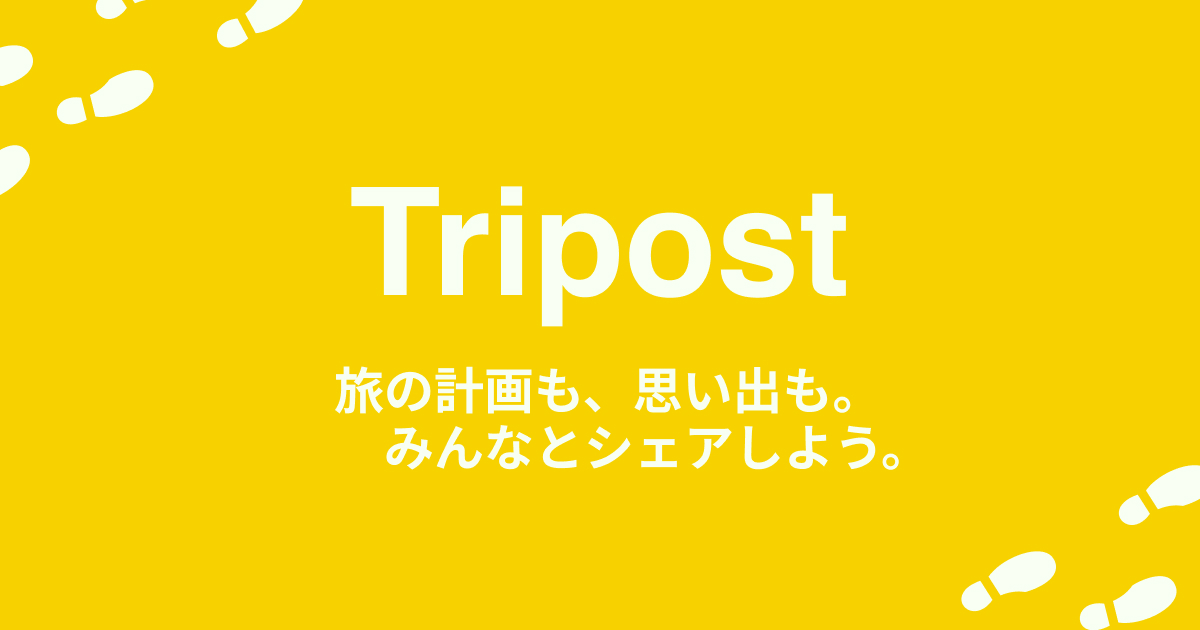
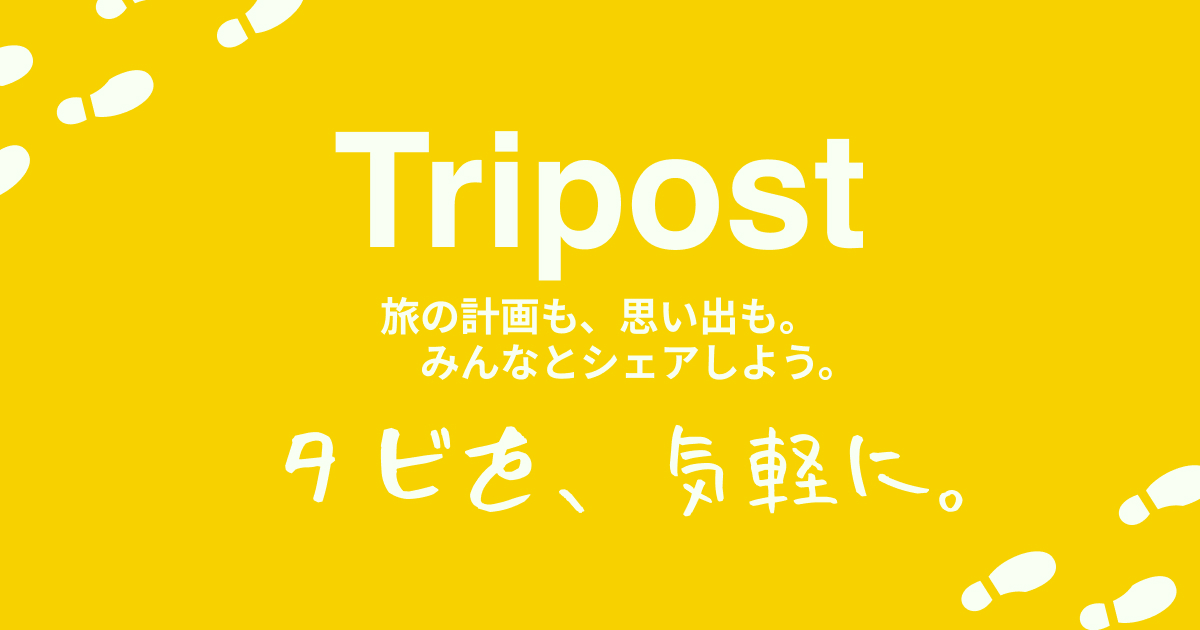
OGP修正＆画像変更

Changed region(s): [[0.2775, 0.181, 0.8017, 0.8143], [0.2158, 0.6635, 0.2775, 0.8143]]

diff --git a/backend_tripost/resources/js/Pages/Profile/ShowPublic.jsx b/backend_tripost/resources/js/Pages/Profile/ShowPublic.jsx
@@ -136,7 +136,7 @@ export default function Show({ user, countries, posts }) {
 
   return (
     <div className='flex min-h-screen flex-col items-center bg-white'>
-      <Head title={`@{user.displayid}`} />
+      <Head title='プロフィール' />
       <div className='w-full'>
         {/*ヘッダー*/}
         <Link href={route('posts.index')}>

diff --git a/backend_tripost/resources/views/app.blade.php b/backend_tripost/resources/views/app.blade.php
@@ -27,9 +27,14 @@
         <meta property="og:type" content="website">
         <meta property="og:title" content="{{ config('app.name', 'Tripost') }}">
         <meta property="og:description" content="旅の計画も、思い出も。みんなとシェアしよう。">
-        <meta property="og:image" content="{{ asset('images/ogp.jpg') }}">
+        <meta property="og:image" content="{{ url('/images/ogp.jpg') }}">
         <meta property="og:url" content="{{ url()->current() }}">
-        <meta name="twitter:card" content="summary">
+
+        <!-- Twitter Card -->
+        <meta name="twitter:card" content="summary_large_image">
+        <meta name="twitter:title" content="{{ config('app.name', 'Tripost') }}">
+        <meta name="twitter:description" content="旅の計画も、思い出も。みんなとシェアしよう。">
+        <meta name="twitter:image" content="{{ url('/images/ogp.jpg') }}">
 
         <!-- Scripts / Vite -->
         @routes
